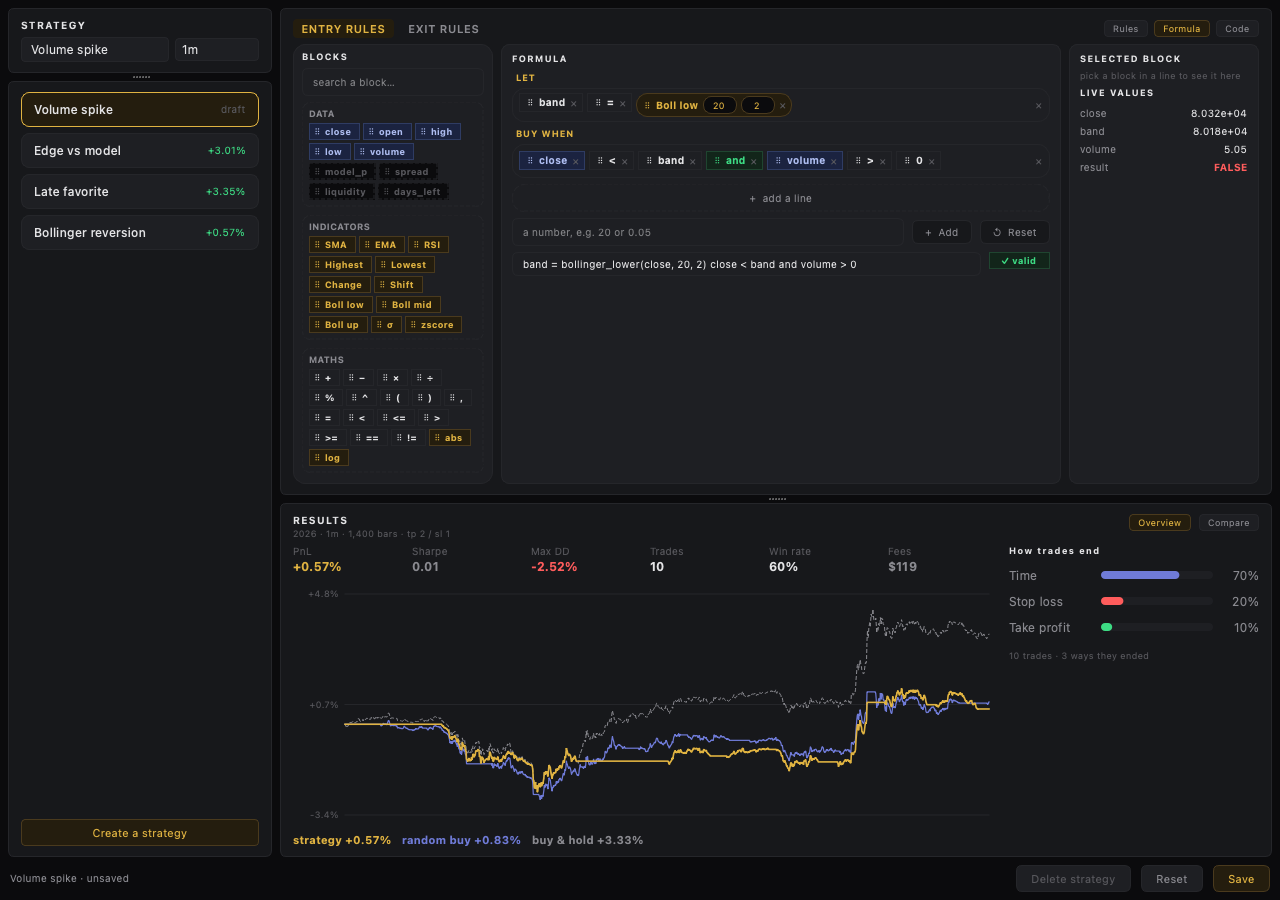
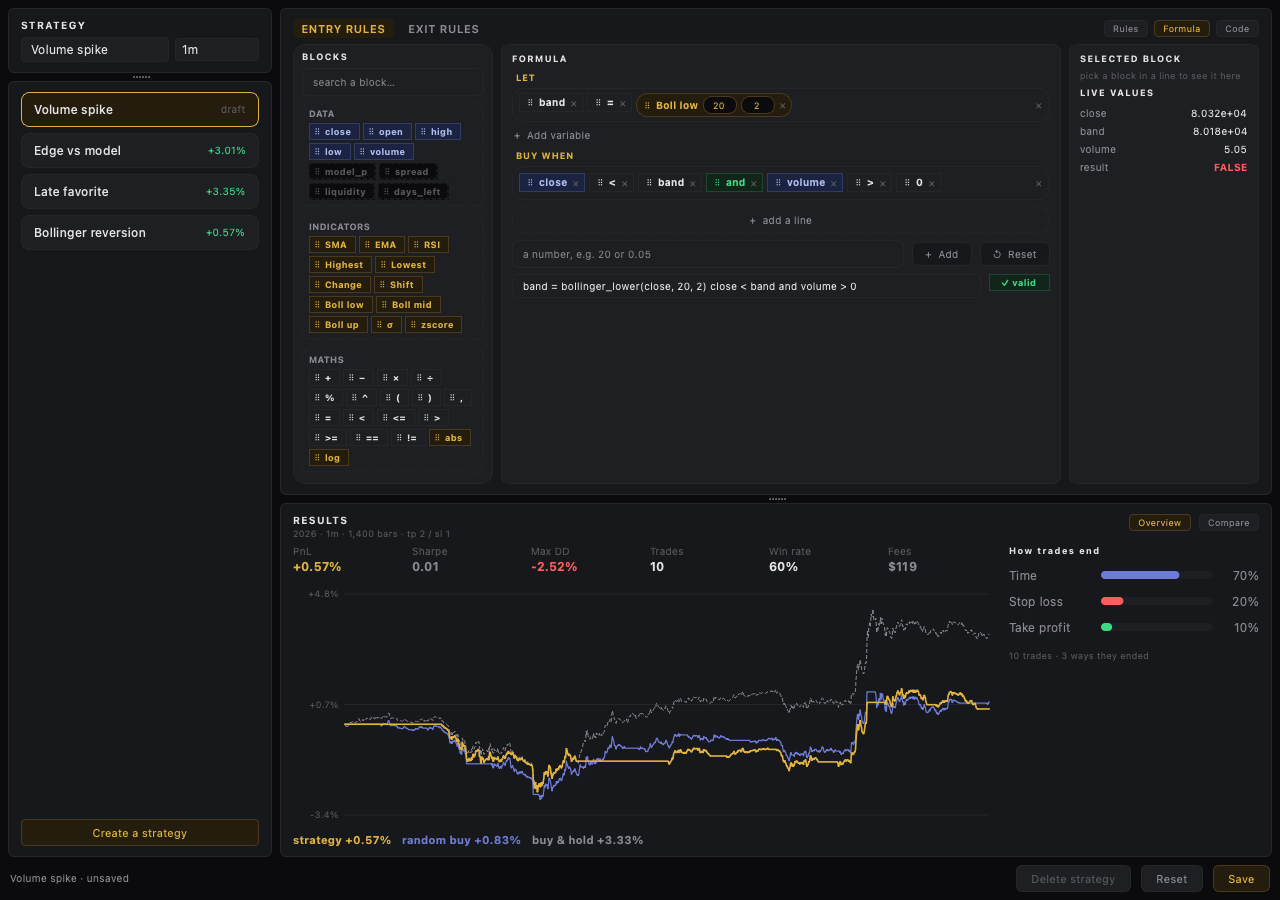
Show the LET sub-part in the Formula tab, with + Add variable
The Formula tab's LET subsection is no longer hidden when nothing is
named: it is always there, above BUY WHEN (or EXIT WHEN), with an
+ Add variable button that drops a named line just above the condition.

diff --git a/src/lalala/formula_builder.py b/src/lalala/formula_builder.py
@@ -997,11 +997,11 @@ class FormulaBuilder(QWidget):
         layout.addWidget(title)
 
         # The lines sit under two headings inside the scroll area: the named
-        # series under LET, the condition under BUY WHEN (EXIT WHEN on the
-        # exit side). With no variables, the LET heading is hidden.
+        # The named series sit under LET, which is always shown with its
+        # `+ add variable`; the condition sits under BUY WHEN (EXIT WHEN on
+        # the exit side).
         self.variables_heading = QLabel("LET", box)
         self.variables_heading.setObjectName("formulaSection")
-        self.variables_heading.hide()
         self.condition_heading = QLabel(self.condition_label, box)
         self.condition_heading.setObjectName("formulaCondition")
 
@@ -1015,6 +1015,14 @@ class FormulaBuilder(QWidget):
         self.strip_layout.setSpacing(4)
         self.strip_layout.setAlignment(Qt.AlignmentFlag.AlignTop)
         layout.addWidget(self.strip_area)
+
+        self.add_variable_button = QPushButton("+  Add variable", box)
+        self.add_variable_button.setObjectName("addVariable")
+        self.add_variable_button.setCursor(Qt.CursorShape.PointingHandCursor)
+        self.add_variable_button.setToolTip(
+            "name a series above the condition"
+        )
+        self.add_variable_button.clicked.connect(lambda: self.add_variable())
 
         self.add_line_button = QPushButton("+  add a line", box)
         self.add_line_button.setObjectName("addLine")
@@ -1503,14 +1511,20 @@ class FormulaBuilder(QWidget):
             if widget is not None:
                 widget.setParent(self.strip_inner)
 
-        # No variables defined: no LET subsection, only the condition.
-        self.variables_heading.setVisible(len(self.strips) > 1)
+        # LET is always shown, with its `+ Add variable`; the condition sits
+        # under the BUY WHEN / EXIT WHEN heading, last.
         self.strip_layout.addWidget(self.variables_heading)
         for strip in self.strips[:-1]:
             self.strip_layout.addWidget(strip)
+        self.strip_layout.addWidget(self.add_variable_button)
         self.strip_layout.addWidget(self.condition_heading)
         if self.strips:
             self.strip_layout.addWidget(self.strips[-1])
+
+    def add_variable(self) -> ChipStrip:
+        """Add a named series just above the condition."""
+        index = max(0, len(self.strips) - 1)
+        return self.add_strip(at=index)
 
     def _refresh(self) -> None:
         self._refresh_warning()
@@ -1527,6 +1541,7 @@ class FormulaBuilder(QWidget):
         # Show the start of the rule, not its tail.
         self.preview_label.setCursorPosition(0)
         self.add_line_button.setEnabled(len(self.strips) < 6)
+        self.add_variable_button.setEnabled(len(self.strips) < 6)
 
         if any(strip.has_empty_slots() for strip in self.strips):
             self._parsed = None

diff --git a/tests/test_formula_builder.py b/tests/test_formula_builder.py
@@ -359,24 +359,31 @@ def test_a_series_line_then_a_condition(
 def test_the_lines_sit_under_let_and_buy_when(
     app: QApplication, builder: FormulaBuilder
 ) -> None:
-    # Nothing to name yet: only the condition subsection is shown.
+    # The LET subsection is always shown, with its + Add variable.
     assert builder.variables_heading.text() == "LET"
     assert builder.variables_heading.objectName() == "formulaSection"
-    assert builder.variables_heading.isHidden() is True
+    assert builder.variables_heading.isHidden() is False
     assert builder.condition_heading.text() == "BUY WHEN"
     assert builder.condition_heading.objectName() == "formulaCondition"
-    assert builder.condition_heading.isVisible() is True
 
-    first = builder.strips[0]
-    _drop(builder, first, ("mid", "="))
-    _drop_call(builder, first, "Indicators", "SMA")
-    second = builder.add_strip()
-    _drop(builder, second, ("close", "<", "mid"))
+    order = [
+        widget.objectName()
+        for widget in (
+            builder.strip_layout.itemAt(i).widget()
+            for i in range(builder.strip_layout.count())
+        )
+    ]
+    # LET, its add button, then the condition under BUY WHEN.
+    assert order == [
+        "formulaSection",
+        "addVariable",
+        "formulaCondition",
+        "chipStrip",
+    ]
+
+    # Add a variable: it lands above the condition, still under LET.
+    builder.add_variable()
     app.processEvents()
-
-    # With a variable defined, the LET subsection appears above it, and the
-    # condition keeps its own heading under the variables.
-    assert builder.variables_heading.isVisible() is True
     order = [
         widget.objectName()
         for widget in (
@@ -387,12 +394,12 @@ def test_the_lines_sit_under_let_and_buy_when(
     assert order == [
         "formulaSection",
         "chipStrip",
+        "addVariable",
         "formulaCondition",
         "chipStrip",
     ]
     # The strips do not repeat the headings.
-    assert first.caption.isHidden() is True
-    assert second.caption.isHidden() is True
+    assert all(strip.caption.isHidden() for strip in builder.strips)
 
 
 def test_the_condition_heading_can_read_exit_when(app: QApplication) -> None:

diff --git a/README.md b/README.md
@@ -450,9 +450,10 @@ The **Formula** takes the slack in the middle: the lines sit directly on the
 card — no scrollbox of their own, so all of them show at once and the page
 around the builder moves if a long rule needs more room — and the formula as
 text is one small read-only line that scrolls sideways. The lines are grouped
-into subsections: named series sit under **`LET`**, which only appears once
-there is at least one variable, and the condition sits under **`BUY WHEN`** on
-the entry side and **`EXIT WHEN`** on the exit side. The **Selected block** is
+into subsections: named series sit under **`LET`**, which is always shown with
+its **`+ Add variable`** button — that adds a named line above the condition —
+and the condition sits under **`BUY WHEN`** on the entry side and **`EXIT
+WHEN`** on the exit side. The **Selected block** is
 the right rail (a little under 250 px), pushed against the edge and scrolling
 in place: its name, source and live values stay readable in a short tile.
 Clicking a chip selects it: the card shows its name, its source and its window,
